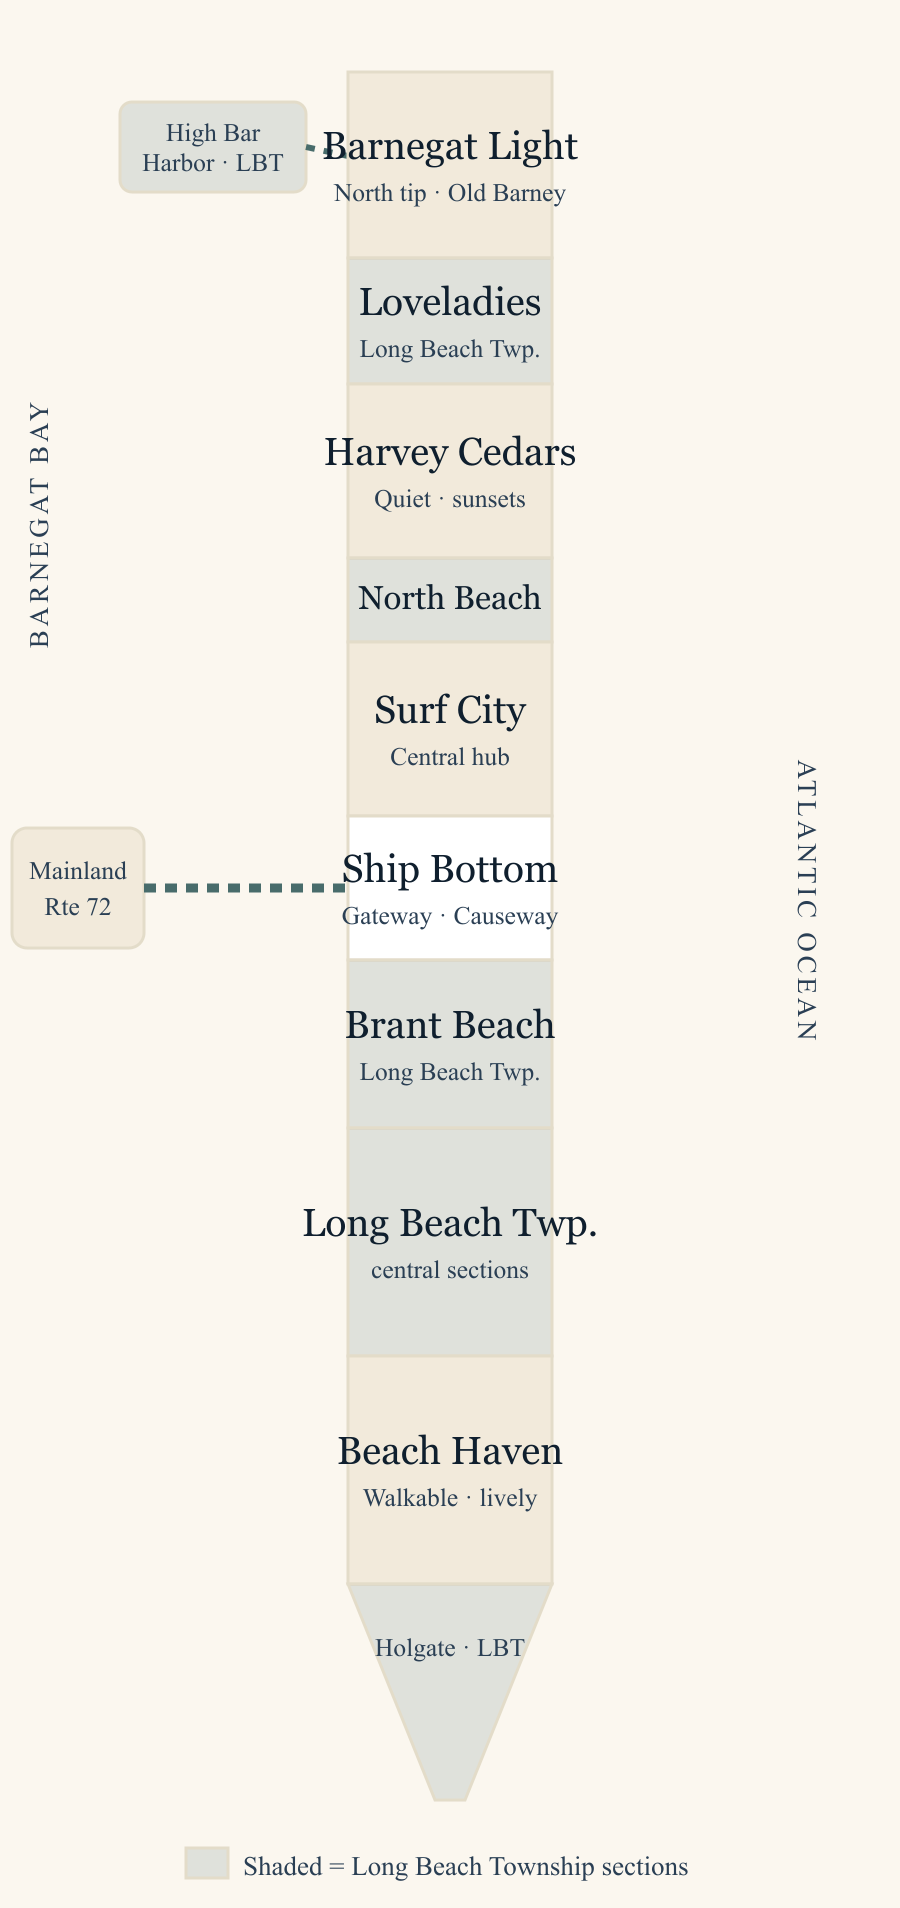
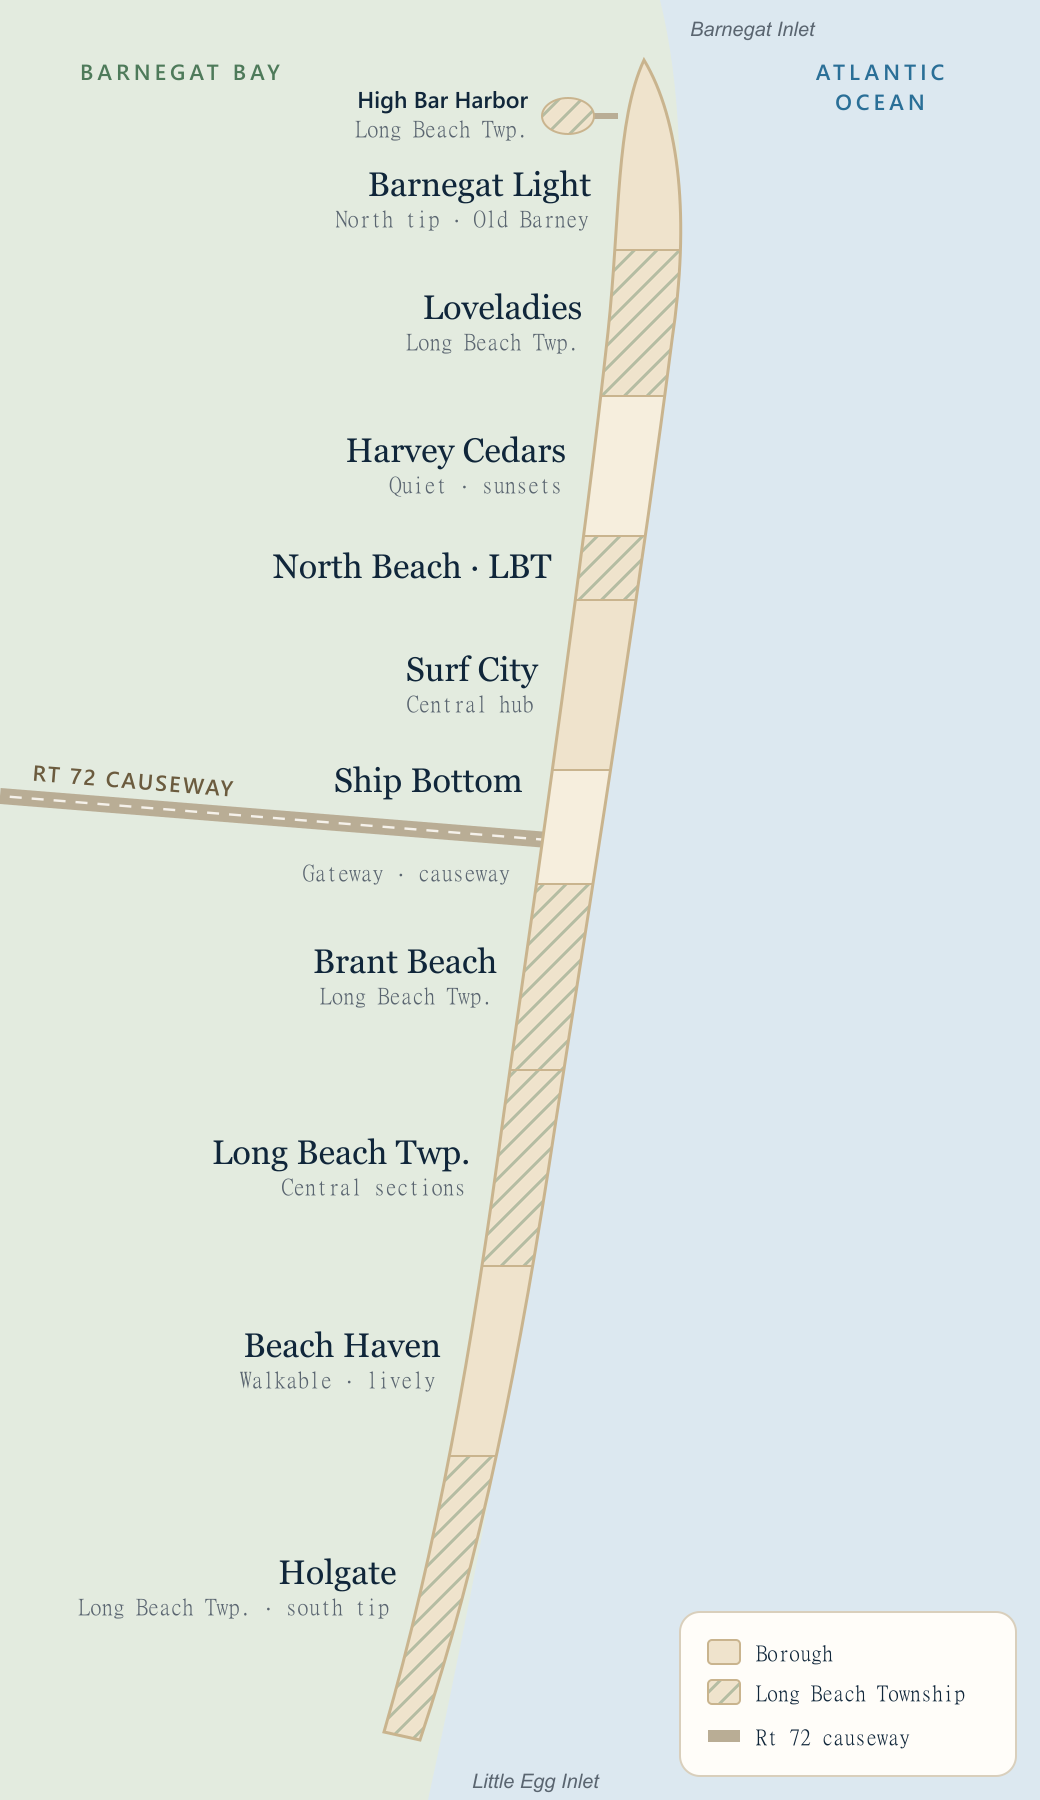
Maps: straight Rt 72 causeway; towns map redrawn in homepage island style
- lbiGeometry.tsx: one shared island/ocean drawing + a straight causeway road
  heading slightly north of west (like the real Rt 72), used by both maps.
- IslandMap: uses shared geometry; causeway tide station sits on the road.
- LbiTownsMap (/towns): same island, each town a clickable stretch with
  bay-side labels; Long Beach Township sections striped; High Bar Harbor
  enclave; legend. Still real <a href> links for crawlers.
- render-towns-map.mjs updated for the new SVG; og:image regenerated.

diff --git a/apps/web/src/components/LbiTownsMap.tsx b/apps/web/src/components/LbiTownsMap.tsx
@@ -1,18 +1,19 @@
 import { useNavigate } from 'react-router-dom'
+import { ISLAND_PATH, OCEAN_PATH, Causeway, westShoreX, VIEW_W, VIEW_H } from './lbiGeometry'
 
 // ─────────────────────────────────────────────────────────────────────────────
-// LBI TOWNS MAP — a hand-built SVG of Long Beach Island as a tall barrier-island
-// strip, north (Barnegat Light) at the top to the south tip (Holgate) at the
-// bottom. Each band is a clickable region linking to a municipality guide.
+// LBI TOWNS MAP — the same island drawing as the homepage map, with each town
+// as a clickable stretch of the island, north (Barnegat Light) to the south
+// tip (Holgate). Labels sit on the bay side, just off the shore.
 //
 // Long Beach Township is NOT one contiguous town — its sections are interleaved
 // between the boroughs (Loveladies sits NORTH of Harvey Cedars; North Beach sits
 // between Harvey Cedars and Surf City; the big central patchwork sits between
 // Ship Bottom and Beach Haven; Holgate is the south tip; and High Bar Harbor is
-// a bayside enclave off Barnegat Light). Every LBT band is shaded teal and links
-// to /long-beach-township so the patchwork reads honestly.
+// a bayside enclave off Barnegat Light). Every LBT stretch is striped so the
+// patchwork reads honestly. Boundaries are relative, not surveyed street lines.
 //
-// Each band is a real SVG <a href> (crawlable + works without JS), with an
+// Each town is a real SVG <a href> (crawlable + works without JS), with an
 // onClick that hands navigation to React Router for client-side routing.
 // ─────────────────────────────────────────────────────────────────────────────
 
@@ -23,28 +24,30 @@ type Band = {
   y0: number
   y1: number
   lbt?: boolean
+  nameY?: number // label baseline override (default: band middle)
+  subY?: number
 }
 
-// North → south, geographically ordered. LBT sections are interleaved with the
-// boroughs rather than grouped, because that is how the island actually runs.
+// North → south, geographically ordered.
 const BANDS: Band[] = [
-  { slug: 'barnegat-light', name: 'Barnegat Light', sub: 'North tip · Old Barney', y0: 24, y1: 86 },
-  { slug: 'loveladies', name: 'Loveladies', sub: 'Long Beach Twp.', y0: 86, y1: 128, lbt: true },
-  { slug: 'harvey-cedars', name: 'Harvey Cedars', sub: 'Quiet · sunsets', y0: 128, y1: 186 },
-  { slug: 'north-beach', name: 'North Beach', sub: 'Long Beach Twp.', y0: 186, y1: 214, lbt: true },
-  { slug: 'surf-city', name: 'Surf City', sub: 'Central hub', y0: 214, y1: 272 },
-  { slug: 'ship-bottom', name: 'Ship Bottom', sub: 'Gateway · Causeway', y0: 272, y1: 320 },
-  { slug: 'brant-beach', name: 'Brant Beach', sub: 'Long Beach Twp.', y0: 320, y1: 376, lbt: true },
-  { slug: 'long-beach-township', name: 'Long Beach Twp.', sub: 'central sections', y0: 376, y1: 452, lbt: true },
-  { slug: 'beach-haven', name: 'Beach Haven', sub: 'Walkable · lively', y0: 452, y1: 528 },
+  { slug: 'barnegat-light', name: 'Barnegat Light', sub: 'North tip · Old Barney', y0: 20, y1: 125, nameY: 98 },
+  { slug: 'loveladies', name: 'Loveladies', sub: 'Long Beach Twp.', y0: 125, y1: 198, lbt: true },
+  { slug: 'harvey-cedars', name: 'Harvey Cedars', sub: 'Quiet · sunsets', y0: 198, y1: 268 },
+  { slug: 'north-beach', name: 'North Beach · LBT', y0: 268, y1: 300, lbt: true },
+  { slug: 'surf-city', name: 'Surf City', sub: 'Central hub', y0: 300, y1: 385 },
+  // Name above the causeway, sub below it.
+  { slug: 'ship-bottom', name: 'Ship Bottom', sub: 'Gateway · causeway', y0: 385, y1: 442, nameY: 396, subY: 440 },
+  { slug: 'brant-beach', name: 'Brant Beach', sub: 'Long Beach Twp.', y0: 442, y1: 535, lbt: true },
+  { slug: 'long-beach-township', name: 'Long Beach Twp.', sub: 'Central sections', y0: 535, y1: 633, lbt: true },
+  { slug: 'beach-haven', name: 'Beach Haven', sub: 'Walkable · lively', y0: 633, y1: 728 },
+  { slug: 'holgate', name: 'Holgate', sub: 'Long Beach Twp. · south tip', y0: 728, y1: 880, lbt: true, nameY: 792 },
 ]
 
-const X0 = 116
-const X1 = 184
-
-// Teal tint for Long Beach Township sections; boroughs alternate sand/paper.
-const LBT_FILL = 'var(--teal-deep)'
-const LBT_OPACITY = 0.16
+const INK = '#10263A'
+const OCEAN = '#2A6F97'
+const BAY = '#4E7A5A'
+const SAND = '#EFE3CC'
+const SAND_ALT = '#F6EEDD'
 
 export default function LbiTownsMap() {
   const navigate = useNavigate()
@@ -57,96 +60,98 @@ export default function LbiTownsMap() {
     navigate(`/${slug}`)
   }
 
+  let boroughIndex = 0
+
   return (
     <svg
-      viewBox="0 0 300 636"
+      className="towns-map"
+      viewBox={`0 0 ${VIEW_W} ${VIEW_H}`}
       role="img"
-      aria-label="Map of the towns of Long Beach Island, New Jersey, north to south: Barnegat Light (with High Bar Harbor), Loveladies, Harvey Cedars, North Beach, Surf City, Ship Bottom, the central Long Beach Township sections, Beach Haven, and Holgate at the south tip. Loveladies, North Beach, Holgate and High Bar Harbor are all part of Long Beach Township."
-      style={{ width: '100%', maxWidth: 300, height: 'auto', display: 'block', margin: '0 auto' }}
+      aria-label="Map of the towns of Long Beach Island, New Jersey, north to south: Barnegat Light (with High Bar Harbor), Loveladies, Harvey Cedars, North Beach, Surf City, Ship Bottom, Brant Beach, the central Long Beach Township sections, Beach Haven, and Holgate at the south tip. Loveladies, North Beach, Brant Beach, Holgate and High Bar Harbor are all part of Long Beach Township."
+      style={{ width: '100%', maxWidth: 560, height: 'auto', display: 'block', margin: '0 auto', borderRadius: 18 }}
       xmlns="http://www.w3.org/2000/svg"
     >
       <title>Map of Long Beach Island (LBI) towns, north to south</title>
-
+      <defs>
+        <clipPath id="tm-island"><path d={ISLAND_PATH} /></clipPath>
+        <pattern id="tm-lbt" width="8" height="8" patternUnits="userSpaceOnUse" patternTransform="rotate(45)">
+          <rect width="8" height="8" fill={SAND} />
+          <line x1="0" y1="0" x2="0" y2="8" stroke={BAY} strokeWidth="3" strokeOpacity="0.35" />
+        </pattern>
+      </defs>
       <style>{`
-        .twn-seg rect, .twn-seg path { transition: fill-opacity 120ms ease, fill 120ms ease; }
-        .twn-seg:hover rect, .twn-seg:hover path { fill: var(--teal-deep); fill-opacity: 1; }
-        .twn-seg:hover text { fill: #fff; }
-        .twn-seg { cursor: pointer; }
-        .twn-lbl { font-family: var(--font-display, serif); font-size: 13px; fill: var(--ink, #123); }
-        .twn-sub { font-size: 8.5px; fill: var(--ink-soft, #567); }
-        .twn-geo { font-size: 9px; fill: var(--ink-soft, #789); letter-spacing: 0.14em; }
-        .twn-key { font-size: 9px; fill: var(--ink-soft, #567); }
+        .tm-seg { cursor: pointer; }
+        .tm-seg .tm-hl { fill: ${OCEAN}; fill-opacity: 0; transition: fill-opacity 120ms ease; }
+        .tm-seg:hover .tm-hl, .tm-seg:focus-visible .tm-hl { fill-opacity: 0.3; }
+        .tm-seg:hover .tm-name, .tm-seg:focus-visible .tm-name { fill: ${OCEAN}; }
+        .tm-name { font-family: Fraunces, Georgia, serif; font-size: 17px; fill: ${INK}; }
+        .tm-sub { font-family: 'Instrument Sans', system-ui, sans-serif; font-size: 11.5px; fill: #5A6570; }
+        .tm-geo { font-family: 'Instrument Sans', system-ui, sans-serif; font-size: 11px; font-weight: 600; letter-spacing: 2px; }
       `}</style>
 
-      {/* Ocean (east) & Bay (west) context labels */}
-      <text className="twn-geo" x={266} y={300} textAnchor="middle" transform="rotate(90 266 300)">
-        ATLANTIC OCEAN
-      </text>
-      <text className="twn-geo" x={16} y={175} textAnchor="middle" transform="rotate(-90 16 175)">
-        BARNEGAT BAY
-      </text>
+      {/* Water + causeway */}
+      <rect x="0" y="0" width={VIEW_W} height={VIEW_H} fill="#E3EBDF" />
+      <path d={OCEAN_PATH} fill="#DCE8F0" />
+      <Causeway />
+      <text className="tm-geo" x="440" y="40" fill={OCEAN} textAnchor="middle">ATLANTIC</text>
+      <text className="tm-geo" x="440" y="55" fill={OCEAN} textAnchor="middle">OCEAN</text>
+      <text className="tm-geo" x="40" y="40" fill={BAY}>BARNEGAT BAY</text>
+      <g fontFamily="'Instrument Sans', sans-serif" fontSize="10" fontStyle="italic" fill="#5A6570">
+        <text x="345" y="18">Barnegat Inlet</text>
+        <text x="236" y="894">Little Egg Inlet</text>
+      </g>
+
+      {/* Town stretches of the island */}
+      {BANDS.map((b) => {
+        const fill = b.lbt ? 'url(#tm-lbt)' : boroughIndex++ % 2 === 0 ? SAND : SAND_ALT
+        const mid = (b.y0 + b.y1) / 2
+        const nameY = b.nameY ?? (b.sub ? mid - 2 : mid + 5)
+        const subY = b.subY ?? nameY + 15
+        const labelX = westShoreX(nameY - 5) - 14
+        return (
+          <a
+            key={b.slug}
+            href={`/${b.slug}`}
+            className="tm-seg"
+            onClick={(e) => go(e, b.slug)}
+            aria-label={`${b.name.replace(' · LBT', '')}${b.lbt ? ' (Long Beach Township)' : ''} guide`}
+          >
+            <g clipPath="url(#tm-island)">
+              <rect x="150" y={b.y0} width="220" height={b.y1 - b.y0} fill={fill} />
+              <rect className="tm-hl" x="150" y={b.y0} width="220" height={b.y1 - b.y0} />
+              <line x1="150" y1={b.y0} x2="370" y2={b.y0} stroke="#C9B48E" strokeWidth="1" />
+            </g>
+            <text className="tm-name" x={labelX} y={nameY} textAnchor="end">{b.name}</text>
+            {b.sub && <text className="tm-sub" x={westShoreX(subY - 4) - 14} y={subY} textAnchor="end">{b.sub}</text>}
+          </a>
+        )
+      })}
+      <path d={ISLAND_PATH} fill="none" stroke="#C9B48E" strokeWidth="1.5" pointerEvents="none" />
 
       {/* High Bar Harbor — LBT bayside enclave reached by one road off Barnegat Light */}
       <a
         href="/long-beach-township"
-        className="twn-seg"
-        onClick={e => go(e, 'long-beach-township')}
+        className="tm-seg"
+        onClick={(e) => go(e, 'long-beach-township')}
         aria-label="High Bar Harbor, part of Long Beach Township"
       >
-        <rect x={40} y={34} width={62} height={30} rx={4} fill={LBT_FILL} fillOpacity={LBT_OPACITY} stroke="var(--line, #d8cfbe)" />
-        <text x={71} y={47} textAnchor="middle" className="twn-sub">High Bar</text>
-        <text x={71} y={57} textAnchor="middle" className="twn-sub">Harbor · LBT</text>
-      </a>
-      <line x1={102} y1={49} x2={X0} y2={52} stroke="var(--teal-deep, #2b7a78)" strokeWidth={2} strokeDasharray="3 3" />
-
-      {/* Mainland + Route 72 Causeway into Ship Bottom */}
-      <rect x={4} y={276} width={44} height={40} rx={5} fill="var(--sand, #efe7d8)" stroke="var(--line, #d8cfbe)" />
-      <text x={26} y={293} textAnchor="middle" className="twn-sub">Mainland</text>
-      <text x={26} y={305} textAnchor="middle" className="twn-sub">Rte 72</text>
-      <line x1={48} y1={296} x2={X0} y2={296} stroke="var(--teal-deep, #2b7a78)" strokeWidth={3} strokeDasharray="4 3" />
-
-      {/* Town bands */}
-      {BANDS.map((b, i) => {
-        const mid = (b.y0 + b.y1) / 2
-        const thin = b.y1 - b.y0 < 34
-        const fill = b.lbt ? LBT_FILL : i % 2 === 0 ? 'var(--sand, #efe7d8)' : 'var(--paper, #f7f2e8)'
-        const fillOpacity = b.lbt ? LBT_OPACITY : 1
-        return (
-          <a
-            key={`${b.slug}-${b.y0}`}
-            href={`/${b.slug}`}
-            className="twn-seg"
-            onClick={e => go(e, b.slug)}
-            aria-label={`${b.name}${b.lbt ? ' (Long Beach Township)' : ''} guide`}
-          >
-            <rect x={X0} y={b.y0} width={X1 - X0} height={b.y1 - b.y0} fill={fill} fillOpacity={fillOpacity} stroke="var(--line, #d8cfbe)" />
-            {thin ? (
-              <text x={150} y={mid + 3} textAnchor="middle" className="twn-lbl" style={{ fontSize: 11 }}>{b.name}</text>
-            ) : (
-              <>
-                <text x={150} y={mid - 2} textAnchor="middle" className="twn-lbl">{b.name}</text>
-                {b.sub && <text x={150} y={mid + 12} textAnchor="middle" className="twn-sub">{b.sub}</text>}
-              </>
-            )}
-          </a>
-        )
-      })}
-
-      {/* Holgate south tip — part of Long Beach Township, tapered to a point */}
-      <a
-        href="/holgate"
-        className="twn-seg"
-        onClick={e => go(e, 'holgate')}
-        aria-label="Holgate, part of Long Beach Township"
-      >
-        <path d={`M${X0} 528 L${X1} 528 L155 600 L145 600 Z`} fill={LBT_FILL} fillOpacity={LBT_OPACITY} stroke="var(--line, #d8cfbe)" />
-        <text x={150} y={552} textAnchor="middle" className="twn-sub">Holgate · LBT</text>
+        <line x1="296" y1="58" x2="309" y2="58" stroke="#B9AD95" strokeWidth="3" />
+        <ellipse cx="284" cy="58" rx="13" ry="9" fill="url(#tm-lbt)" stroke="#C9B48E" />
+        <ellipse className="tm-hl" cx="284" cy="58" rx="13" ry="9" />
+        <text className="tm-sub" x="264" y="54" textAnchor="end" style={{ fontWeight: 600, fill: INK }}>High Bar Harbor</text>
+        <text className="tm-sub" x="264" y="68" textAnchor="end">Long Beach Twp.</text>
       </a>
 
-      {/* Legend — the shaded sections are all one municipality.
-          Keep the label short: text past x≈290 clips at the viewBox edge. */}
-      <rect x={62} y={616} width={14} height={10} fill={LBT_FILL} fillOpacity={LBT_OPACITY} stroke="var(--line, #d8cfbe)" />
-      <text x={81} y={625} className="twn-key">Shaded = Long Beach Township sections</text>
+      {/* Legend */}
+      <g fontFamily="'Instrument Sans', sans-serif" fontSize="11" fill={INK}>
+        <rect x="340" y="806" width="168" height="82" rx="10" fill="#FFFDF9" stroke="#D9CFBC" />
+        <rect x="354" y="820" width="16" height="12" rx="2" fill={SAND} stroke="#C9B48E" />
+        <text x="378" y="830">Borough</text>
+        <rect x="354" y="840" width="16" height="12" rx="2" fill="url(#tm-lbt)" stroke="#C9B48E" />
+        <text x="378" y="850">Long Beach Township</text>
+        <line x1="354" y1="868" x2="370" y2="868" stroke="#B9AD95" strokeWidth="6" />
+        <text x="378" y="872">Rt 72 causeway</text>
+      </g>
     </svg>
   )
 }

diff --git a/apps/web/src/components/lbiGeometry.tsx b/apps/web/src/components/lbiGeometry.tsx
@@ -1,0 +1,78 @@
+// Shared drawing of Long Beach Island for the homepage IslandMap and the
+// /towns LbiTownsMap, in a 520×900 viewBox (north up, bay west, ocean east).
+
+export const VIEW_W = 520
+export const VIEW_H = 900
+
+export const ISLAND_PATH =
+  'M 322 30 C 340 60, 345 110, 336 170 C 322 280, 300 420, 278 560 C 260 680, 240 780, 210 870 ' +
+  'L 192 866 C 218 776, 236 676, 252 556 C 272 416, 292 276, 304 166 C 310 110, 308 60, 322 30 Z'
+
+export const OCEAN_PATH =
+  'M 330 0 L 520 0 L 520 900 L 214 900 C 240 780, 258 680, 276 560 C 298 420, 318 280, 334 170 C 344 100, 340 40, 330 0 Z'
+
+// Route 72 leaves Ship Bottom heading slightly north of west toward
+// Manahawkin — a straight causeway, drawn from the island's bay shore to the
+// map's west edge.
+export const CAUSEWAY = { x1: 274, y1: 420, x2: 0, y2: 398 }
+
+/** y on the causeway at a given x (for placing markers/labels on it). */
+export function causewayY(x: number): number {
+  const { x1, y1, x2, y2 } = CAUSEWAY
+  return y2 + ((y1 - y2) * (x - x2)) / (x1 - x2)
+}
+
+export const CAUSEWAY_ANGLE = (Math.atan2(CAUSEWAY.y1 - CAUSEWAY.y2, CAUSEWAY.x1 - CAUSEWAY.x2) * 180) / Math.PI
+
+// The island's west (bay) shore as three cubic Béziers, sampled once so labels
+// can sit a fixed distance off the shore at any latitude.
+type Pt = [number, number]
+const WEST_SHORE: Array<[Pt, Pt, Pt, Pt]> = [
+  [[192, 866], [218, 776], [236, 676], [252, 556]],
+  [[252, 556], [272, 416], [292, 276], [304, 166]],
+  [[304, 166], [310, 110], [308, 60], [322, 30]],
+]
+const shoreSamples: Pt[] = WEST_SHORE.flatMap(([a, b, c, d]) =>
+  Array.from({ length: 41 }, (_, i) => {
+    const t = i / 40, u = 1 - t
+    return [
+      u * u * u * a[0] + 3 * u * u * t * b[0] + 3 * u * t * t * c[0] + t * t * t * d[0],
+      u * u * u * a[1] + 3 * u * u * t * b[1] + 3 * u * t * t * c[1] + t * t * t * d[1],
+    ] as Pt
+  }),
+).sort((p, q) => p[1] - q[1])
+
+/** x of the island's bay shore at height y. */
+export function westShoreX(y: number): number {
+  for (let i = 1; i < shoreSamples.length; i++) {
+    const [x0, y0] = shoreSamples[i - 1]
+    const [x1, y1] = shoreSamples[i]
+    if (y <= y1) return y1 === y0 ? x1 : x0 + ((x1 - x0) * (y - y0)) / (y1 - y0)
+  }
+  return shoreSamples[shoreSamples.length - 1][0]
+}
+
+/** The causeway as a road: tan roadbed with a dashed center line. */
+export function Causeway({ label = true }: { label?: boolean }) {
+  const { x1, y1, x2, y2 } = CAUSEWAY
+  return (
+    <g>
+      <line x1={x1} y1={y1} x2={x2} y2={y2} stroke="#B9AD95" strokeWidth="8" />
+      <line x1={x1} y1={y1} x2={x2} y2={y2} stroke="#F5F1EA" strokeWidth="1.2" strokeDasharray="6 5" />
+      {label && (
+        <text
+          x="16"
+          y={causewayY(16) - 9}
+          transform={`rotate(${CAUSEWAY_ANGLE.toFixed(2)} 16 ${causewayY(16) - 9})`}
+          fontSize="11"
+          fill="#6B5B3E"
+          fontFamily="Instrument Sans, sans-serif"
+          fontWeight="600"
+          letterSpacing="1"
+        >
+          RT 72 CAUSEWAY
+        </text>
+      )}
+    </g>
+  )
+}

diff --git a/apps/web/src/components/IslandMap.tsx b/apps/web/src/components/IslandMap.tsx
@@ -2,6 +2,7 @@
 // (B1–B4) west of the island, the two ocean readings (O1 Atlantic City pier,
 // O2 buoy 44091) pointing off-map, and the Long Beach Township cams.
 // Marker positions are approximate latitudes along the drawn island.
+import { ISLAND_PATH, OCEAN_PATH, Causeway, causewayY } from './lbiGeometry'
 
 const OCEAN = '#2A6F97'
 const BAY = '#4E7A5A'
@@ -10,7 +11,7 @@ const INK = '#10263A'
 const bayPins = [
   { id: 'B1', x: 198, y: 112 },
   { id: 'B2', x: 180, y: 290 },
-  { id: 'B3', x: 200, y: 437 },
+  { id: 'B3', x: 200, y: Math.round(causewayY(200)) }, // on the causeway (Manahawkin Bay bridge)
   { id: 'B4', x: 120, y: 728 },
 ]
 const oceanPins = [
@@ -28,7 +29,7 @@ const places: Array<[string, number, number]> = [
   ['Harvey Cedars', 280, 228],
   ['North Beach', 272, 272],
   ['Surf City', 266, 344],
-  ['Ship Bottom', 258, 396],
+  ['Ship Bottom', 262, 390],
   ['Brant Beach', 244, 522],
   ['Beach Haven', 222, 694],
   ['Holgate', 190, 818],
@@ -43,10 +44,9 @@ export default function IslandMap() {
       aria-label="Map of Long Beach Island with bay tide stations to the west, ocean readings to the east, and live cams along the island"
     >
       <rect x="0" y="0" width="520" height="900" fill="#E3EBDF" />
-      <path d="M 330 0 L 520 0 L 520 900 L 214 900 C 240 780, 258 680, 276 560 C 298 420, 318 280, 334 170 C 344 100, 340 40, 330 0 Z" fill="#DCE8F0" />
-      <path d="M 272 425 L 0 470" stroke="#B9AD95" strokeWidth="5" strokeLinecap="round" />
-      <text x="40" y="492" fontSize="11" fill="#6B5B3E" fontFamily="Instrument Sans, sans-serif" fontWeight="600" letterSpacing="1">RT 72 CAUSEWAY</text>
-      <path d="M 322 30 C 340 60, 345 110, 336 170 C 322 280, 300 420, 278 560 C 260 680, 240 780, 210 870 L 192 866 C 218 776, 236 676, 252 556 C 272 416, 292 276, 304 166 C 310 110, 308 60, 322 30 Z" fill="#EFE3CC" stroke="#C9B48E" strokeWidth="1.5" />
+      <path d={OCEAN_PATH} fill="#DCE8F0" />
+      <Causeway />
+      <path d={ISLAND_PATH} fill="#EFE3CC" stroke="#C9B48E" strokeWidth="1.5" />
       <g fontFamily="Instrument Sans, sans-serif" fontSize="11" fontWeight="600" letterSpacing="2">
         <text x="440" y="40" fill={OCEAN} textAnchor="middle">ATLANTIC</text>
         <text x="440" y="55" fill={OCEAN} textAnchor="middle">OCEAN</text>

diff --git a/apps/web/src/pages/TownsPage.tsx b/apps/web/src/pages/TownsPage.tsx
@@ -116,7 +116,7 @@ export default function TownsPage() {
             <h2 className="lc-name" style={{ fontSize: 24, marginBottom: 6 }}>Map of LBI Towns</h2>
             <p style={{ fontSize: 13, color: 'var(--ink-soft)', marginBottom: 16 }}>
               Long Beach Island runs 18 miles north to south. Tap a town to open its guide —
-              Barnegat Light sits at the north tip, Holgate at the south. The shaded bands are all
+              Barnegat Light sits at the north tip, Holgate at the south. The striped stretches are all
               Long Beach Township: it isn&apos;t one continuous town but a patchwork of sections
               woven between the boroughs — Loveladies actually sits north of Harvey Cedars, and High
               Bar Harbor is a bayside enclave off Barnegat Light.
